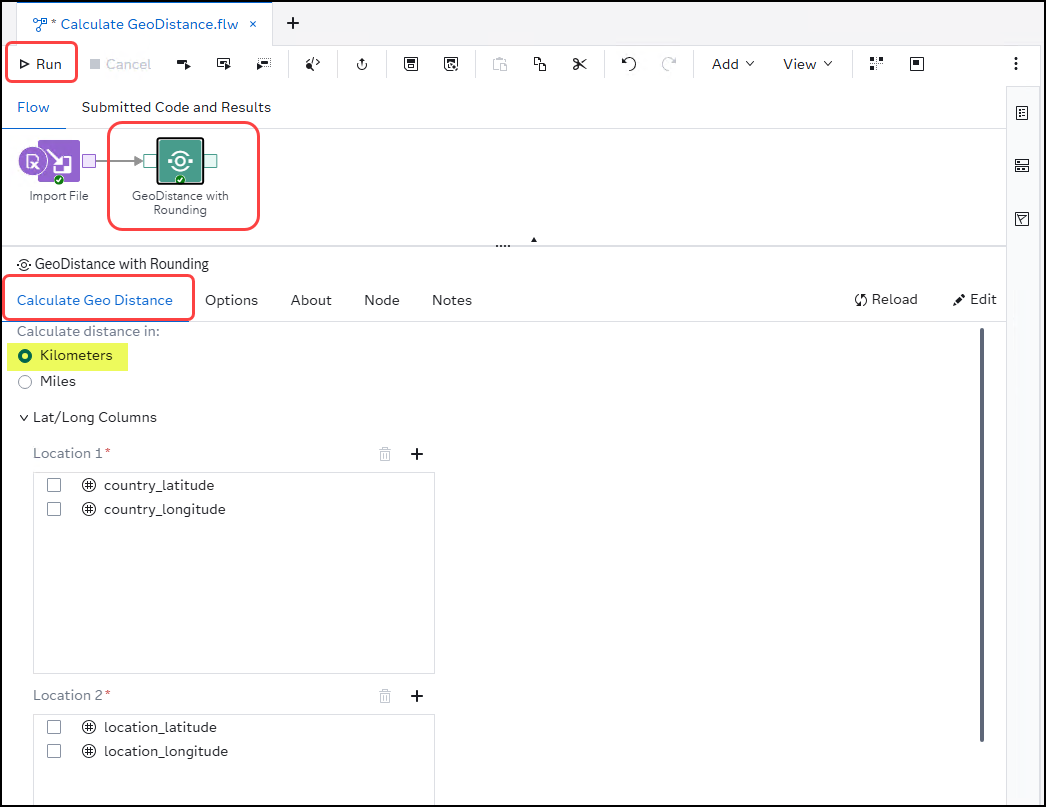
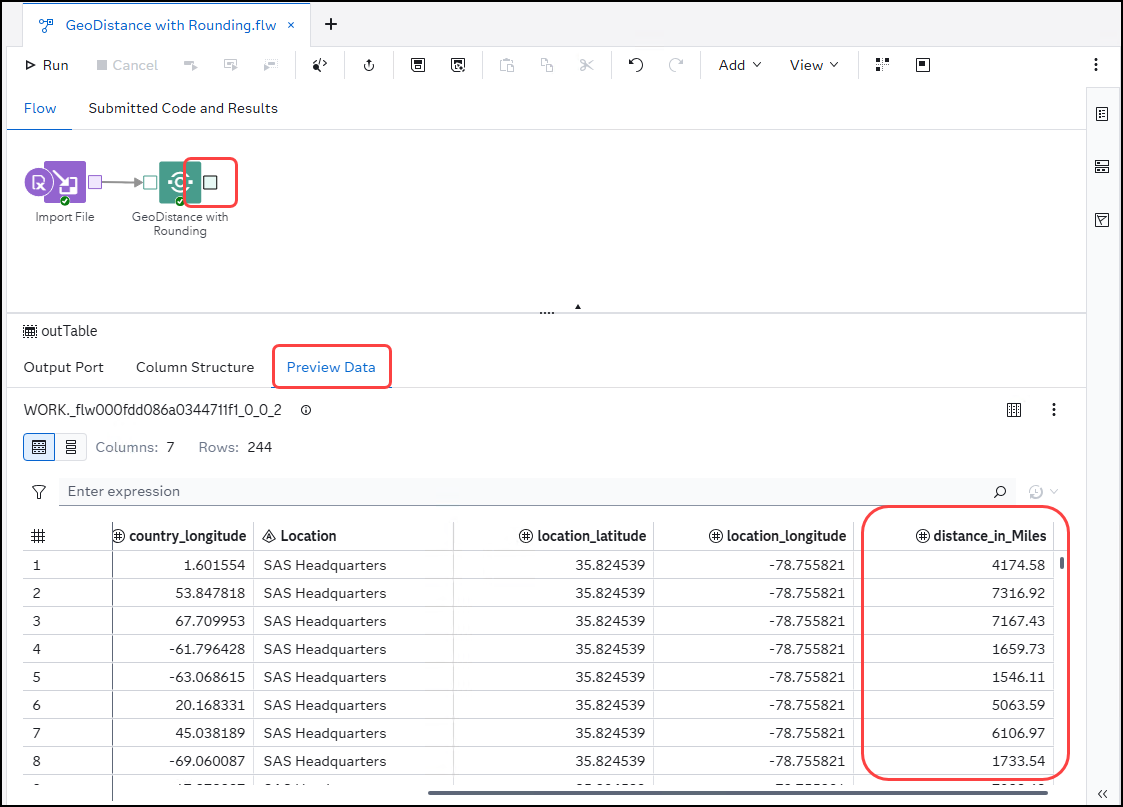
updated screenshot

diff --git a/Create_Custom_Step.md b/Create_Custom_Step.md
@@ -269,7 +269,7 @@ run;
 <br>
 
 ### Assignment: Test the Custom Step
-Perform various tests using **MAPS.AFRICA** as the input table.  Use ![Input Table](images/SelectInputTable.png) to select the input table.
+Perform a test using **MAPS.AFRICA** as the input table.  Use ![Input Table](images/SelectInputTable.png) to select the input table.
 
 Select columns **X** and **Y** for *Location 1* and columns **LAT** and **LONG** for *Location 2*.
 
@@ -285,8 +285,6 @@ View the resulting **TEST** table in the **WORK** library.  Select ![Libraries](
 ![WORK.TEST Table](images/WorkTestResults.png)
 
 **Close** the *TEST* table and the custom step when done.
-
-If time permits, play around with different options on the **Options** tab of the custom step.
 
 <br>
 <br>
@@ -339,7 +337,7 @@ If time permits, play around with different options on the **Options** tab of th
 1. **Save** the flow file.
 1. Click ![Run](images/RunIcon.png) to execute the flow file.
 1. Select the **output port** for the *GeoDistance with Rounding* step to view the results.
-1. Select the **Preview** tab.
+1. Select the **Preview Data** tab.
 
     ![](images/CSPreviewResultsMiles.png)
 
@@ -354,7 +352,7 @@ If time permits, play around with different options on the **Options** tab of th
 1. **Save** the flow file.
 1. Click ![Run](images/RunIcon.png) to execute the flow file.
 1. Select the **output port** for the *GeoDistance with Rounding* step to view the results.
-1. Select the **Preview** tab.
+1. Select the **Preview Data** tab.
 
     ![](images/CSPreviewResultsKM.png)
 
